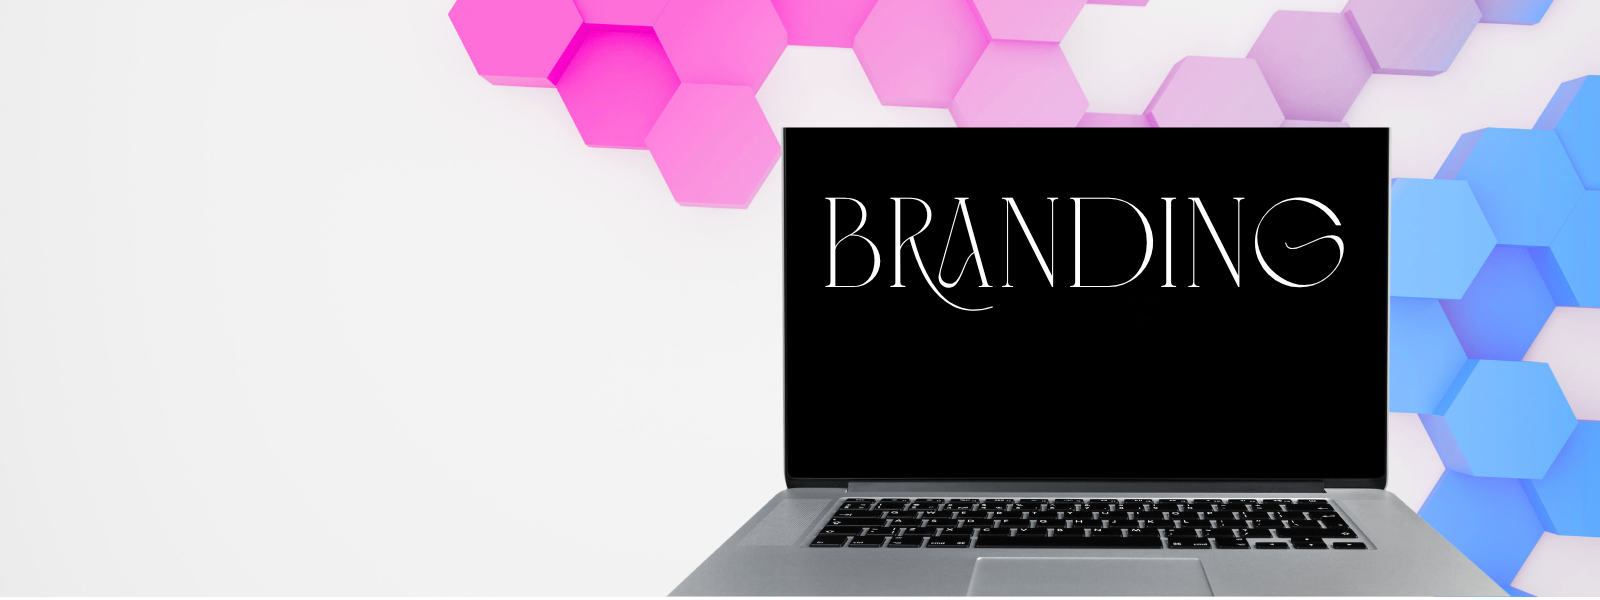
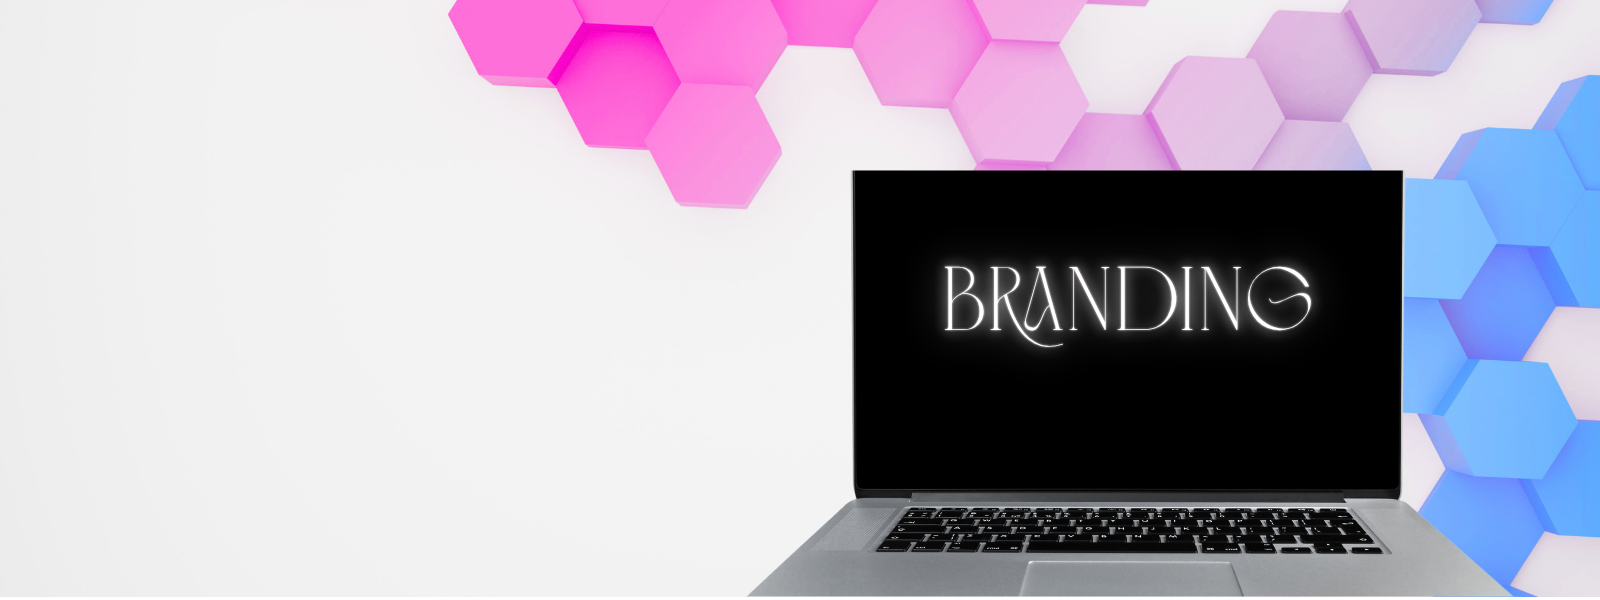
Actualización de diseño: acomodo foto brandig

Changed region(s): [[0.4062, 0.21, 0.875, 1.0]]

diff --git a/servicio-branding.html b/servicio-branding.html
@@ -9,20 +9,12 @@
 </head>
 <body style="margin: 0; font-family: 'Emilys Candy', cursive;">
 
-  <!-- HEADER CON LOGO -->
- <header style="position: fixed; top: 0; left: 0; width: 100%; z-index: 1000; background: transparent; padding: 10px 30px;">
-    <div style="display: flex; align-items: center;">
-      <a href="index.html">
-        <img src="images/logo2.png" alt="Logo La Saga de Ángelo" style="height: 230px;">
-      </a>
-    </div>
-  </header>
 
   <!-- SECCIÓN DE BRANDING -->
-  <section id="branding" class="branding-section" style="margin-top: 90px; padding: 60px 20px; background: url('images/fondo-branding.png') center/cover no-repeat; color: #fff;">
+  <section id="branding" class="branding-section" style="padding: 60px 20px; background: url('images/fondo-branding.png') center/cover no-repeat; background-attachment: fixed; color: #fff;">
     <div class="container" style="max-width: 1100px; margin: auto;">
 
-      <h2 style="text-align: center; font-size: 2.5em; margin-bottom: 10px; color: #4d1669; text-shadow: 1px 1px 3px rgba(247, 243, 243, 0.7);">
+      <h2 style="text-align: center; font-size: 2.5em; margin-bottom: 10px; color: #810988; text-shadow: 1px 1px 3px rgba(247, 243, 243, 0.7);">
   🌟 Branding Profesional
 </h2>
 
@@ -90,6 +82,15 @@
       </div>
     </div>
   </section>
+
+<footer class="footer" style="background-color: #111; color: #ccc; padding: 20px;">
+  <div style="max-width: 1200px; margin: 0 auto; display: flex; justify-content: flex-end; align-items: center;">
+    <a href="index.html" title="Inicio" style="display: inline-block; font-size: 24px; background: #2df182; color: #000; padding: 10px 14px; border-radius: 50%; text-decoration: none; box-shadow: 0 0 10px rgba(243, 156, 18, 0.4);">
+      🏠
+    </a>
+    <p style="margin-left: 10px;">Volver al inicio</p>
+  </div>
+</footer>
 
 </body>
 </html>
